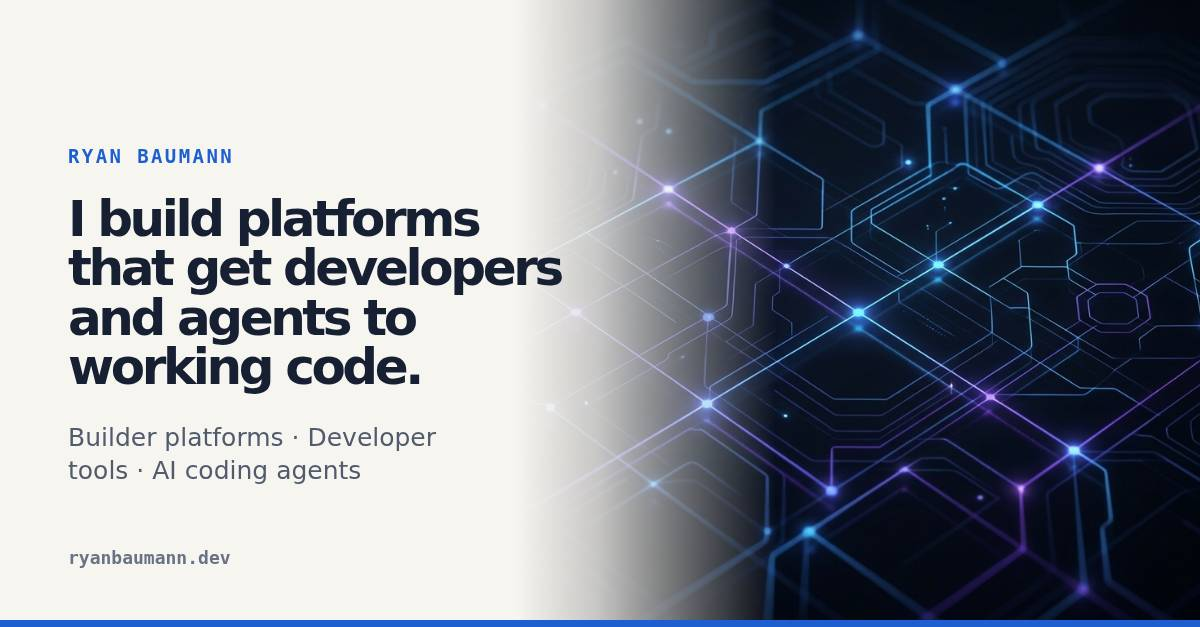
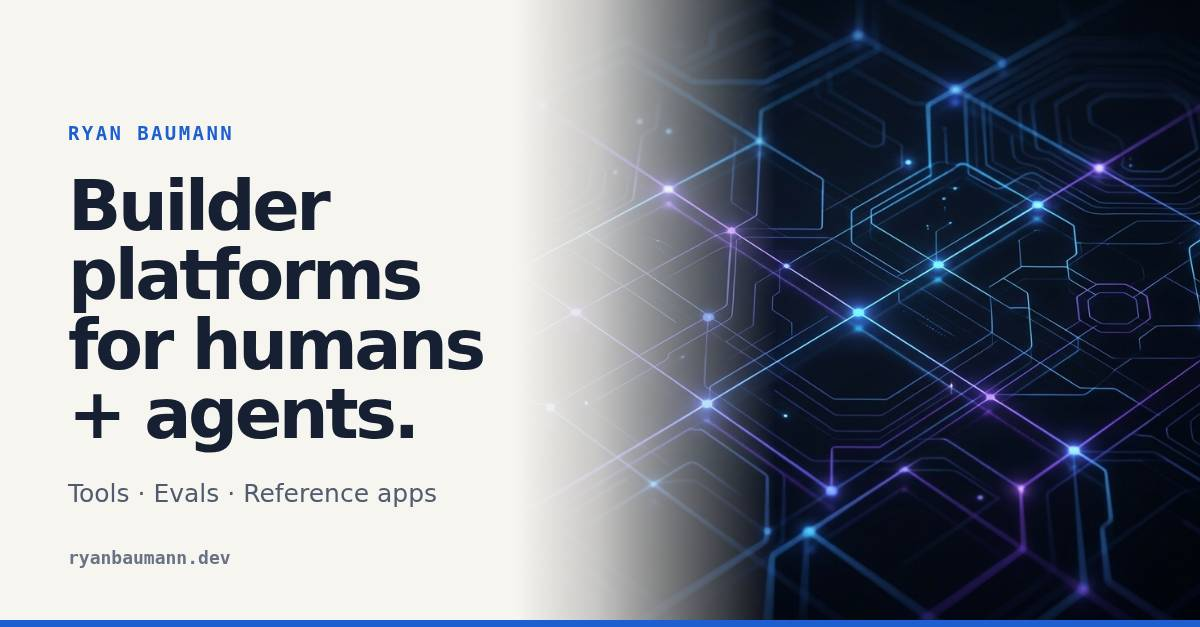
Simplify homepage hierarchy (#98)

Changed region(s): [[0.0308, 0.1818, 0.4933, 0.8182]]

diff --git a/portfolio/style.css b/portfolio/style.css
@@ -131,6 +131,10 @@ img { max-width: 100%; height: auto; border-radius: 0.6rem; }
   border-bottom: 1px solid color-mix(in srgb, var(--line) 70%, transparent);
 }
 .site-name { min-height: 44px; display: inline-flex; align-items: center; font-weight: 700; text-decoration: none; letter-spacing: -0.01em; }
+.site-name-short { display: none; }
+.site-nav-frame { min-width: 0; }
+.nav-overflow-cue,
+.nav-overflow-cue[hidden] { display: none; }
 .site-header nav {
   display: flex;
   gap: clamp(0.75rem, 3vw, 1.35rem);
@@ -141,6 +145,7 @@ img { max-width: 100%; height: auto; border-radius: 0.6rem; }
 }
 .site-header nav::-webkit-scrollbar { display: none; }
 .site-header nav a {
+  flex: 0 0 auto;
   text-decoration: none;
   color: var(--muted);
   font-size: 0.95rem;
@@ -148,22 +153,11 @@ img { max-width: 100%; height: auto; border-radius: 0.6rem; }
   min-height: 44px;
   display: inline-flex;
   align-items: center;
+  white-space: nowrap;
 }
 .site-header nav a:hover { color: var(--accent-ink); }
 .site-header nav a[aria-current="page"] { color: var(--ink); font-weight: 600; }
 .header-actions { display: flex; align-items: center; gap: 0.5rem; flex-wrap: wrap; justify-content: flex-end; }
-.header-cta {
-  border: 1px solid var(--ink);
-  border-radius: 999px;
-  padding: 0 1rem;
-  background: var(--ink);
-  color: var(--bg);
-  font-size: 0.82rem;
-  font-weight: 650;
-  text-decoration: none;
-  white-space: nowrap;
-}
-.header-cta:hover { background: var(--accent-ink); border-color: var(--accent-ink); color: var(--bg); }
 .header-contact {
   min-height: 44px;
   display: inline-flex;
@@ -214,10 +208,6 @@ main > section { margin-bottom: clamp(2rem, 5vw, 3.5rem); }
   .header-actions {
     flex-wrap: nowrap;
     gap: 0.25rem;
-  }
-  .header-cta {
-    padding: 0 0.6rem;
-    font-size: 0.75rem;
   }
   .site-footer { flex-direction: column; gap: 0.5rem; }
 }
@@ -721,14 +711,12 @@ html[data-theme="dark"] {
 }
 .site-header nav a,
 .theme-toggle,
-.header-cta,
 .header-contact,
 .button {
   min-height: 44px;
 }
 .site-header nav a { min-width: 44px; justify-content: center; }
 .header-actions { flex-wrap: nowrap; }
-.header-cta,
 .header-contact,
 .theme-toggle,
 .button {
@@ -745,7 +733,7 @@ html[data-theme="dark"] {
 main > section.hero { margin-bottom: clamp(0.75rem, 2vw, 1.5rem); }
 .hero h1 {
   max-width: 63rem;
-  font-size: clamp(2.5rem, 7.2vw, 5rem);
+  font-size: clamp(2.5rem, 6vw, 4.25rem);
   line-height: 1.05;
   letter-spacing: -0.04em;
 }
@@ -774,9 +762,9 @@ main > section.hero { margin-bottom: clamp(0.75rem, 2vw, 1.5rem); }
 .text-link { color: var(--muted); font-size: 0.92rem; min-height: 44px; display: inline-flex; align-items: center; }
 
 /* ---- hero profile row + stats ---- */
-.hero-profile { display: flex; align-items: center; gap: 1rem; margin-bottom: 1.25rem; }
+.hero-profile { display: flex; align-items: center; gap: 0.85rem; margin-bottom: 1rem; }
 .hero-profile .profile-image {
-  width: clamp(4rem, 14vw, 5.25rem);
+  width: clamp(3.5rem, 10vw, 4.5rem);
   margin-bottom: 0;
 }
 .hero-role { margin: 0; font-weight: 650; letter-spacing: -0.01em; }
@@ -893,49 +881,64 @@ main > section.hero { margin-bottom: clamp(0.75rem, 2vw, 1.5rem); }
 
 @media (max-width: 720px) {
   .site-header {
-    grid-template-columns: minmax(0, 1fr) auto;
-    padding: 0.55rem 0.8rem 0.4rem;
+    grid-template-columns: auto minmax(0, 1fr) auto;
+    flex-wrap: nowrap;
+    padding: 0.4rem 0.8rem;
+    gap: 0.4rem;
   }
-  .site-name { max-width: none; }
+  .site-name { min-width: 44px; justify-content: flex-start; }
+  .site-name-full { display: none; }
+  .site-name-short { display: inline; }
   .site-header nav {
-    grid-column: 1 / -1;
-    grid-row: 2;
     justify-content: start;
-    order: 3;
     width: 100%;
     gap: 0.25rem;
     overflow-x: auto;
     flex-wrap: nowrap;
+    padding-bottom: 0.15rem;
+    scrollbar-width: thin;
+    scrollbar-color: var(--faint) transparent;
   }
+  .site-nav-frame {
+    position: relative;
+  }
+  .site-nav-frame.has-nav-overflow {
+    padding-right: 4.2rem;
+  }
+  .nav-overflow-cue {
+    position: absolute;
+    inset: 0 0 0 auto;
+    display: flex;
+    align-items: center;
+    width: 4.4rem;
+    justify-content: center;
+    background: var(--bg);
+    color: var(--faint);
+    font: 600 0.6rem/1 ui-monospace, "SF Mono", SFMono-Regular, Menlo, Consolas, monospace;
+    letter-spacing: 0.02em;
+    border: 0;
+    cursor: pointer;
+  }
+  .site-header nav::-webkit-scrollbar { display: block; height: 3px; }
+  .site-header nav::-webkit-scrollbar-thumb { background: var(--faint); border-radius: 999px; }
   .site-header nav a { min-height: 44px; font-size: 0.78rem; padding-inline: 0.25rem; }
   .site-header nav a { min-width: 44px; justify-content: center; }
   .header-actions { justify-self: end; gap: 0.35rem; }
   .theme-toggle { min-height: 44px; font-size: 1.1rem; padding: 0; }
-  .header-cta { min-height: 44px; font-size: 0.75rem; padding-inline: 0.65rem; }
   .header-contact { font-size: 0.75rem; padding-inline: 0.25rem; }
-  main { padding-top: 1.1rem; }
+  main { padding-top: 0.75rem; }
   main > section { margin-bottom: 2rem; }
-  .hero h1 { font-size: clamp(2.45rem, 12vw, 3.5rem); line-height: 1.1; letter-spacing: -0.03em; }
+  .hero h1 { font-size: clamp(1.6rem, 8vw, 2.8rem); line-height: 1.08; letter-spacing: -0.03em; }
   .hero .lede { font-size: 1.04rem; line-height: 1.5; }
   .hero { margin-bottom: 1rem; }
 }
 
+@media (max-width: 360px) {
+  .header-contact { display: none; }
+}
+
 @media (max-width: 480px) {
   .intent-options { grid-template-columns: 1fr; }
-}
-
-@media (max-width: 400px) {
-  .site-header nav a { font-size: 0.74rem; }
-  .header-cta { font-size: 0.76rem; padding-inline: 0.75rem; }
-}
-
-@media (max-width: 360px) {
-  .site-header nav { padding-right: 3.75rem; }
-  .header-contact {
-    position: absolute;
-    right: 0.8rem;
-    bottom: 0.4rem;
-  }
 }
 
 @media (min-width: 640px) and (max-width: 1024px) {

diff --git a/LEARNINGS.md b/LEARNINGS.md
@@ -2,6 +2,13 @@
 
 This log captures durable lessons discovered while building and maintaining the portfolio and demo lab, keeping the root instructions lean.
 
+## 2026-07-18 - Primary content belongs in primary navigation
+
+Context: Field Notes appeared as a special header button beside Contact while the rest of the site destinations lived in the primary navigation. On mobile, that split forced the navigation onto a second full-height row and obscured the intended content hierarchy.
+Learning: Put the site’s main reader destination first in the semantic primary navigation. Reserve header actions for utilities, and keep mobile navigation in one horizontally scrollable row so 44-pixel targets do not require a second tier. When links overflow, retain a visible native scroll affordance.
+Evidence: The rendered header now leads with Field Notes in the primary nav, removes the duplicate Field Notes action, and keeps branding, visibly scrollable navigation, Contact, and the theme control on one mobile row. A build regression test asserts the nav order.
+Use next time: Start hierarchy changes from the semantic link order, then let the mobile layout preserve that order without duplicating destinations as calls to action.
+
 ## 2026-07-17 - Navigation and card affordances need structural regression tests
 
 Context: A homepage hierarchy pass removed Resume from the primary header and left Talks out, while collection rows made only the title clickable even though their image and summary looked like one interactive result.

diff --git a/CHANGELOG.md b/CHANGELOG.md
@@ -12,6 +12,7 @@ All notable changes to this project will be documented in this file.
 - Enhanced the `sitemap.xml` generator to output `<image:image>` and `<image:loc>` nodes for pages with cover images to optimize visual search indexing.
 
 ### Changed
+- Simplified the homepage role, headline, introduction, calls to action, and social card; made Field Notes the first primary navigation link and first homepage section; moved Ryan’s Lab after it; and reduced the mobile header to one compact row with visible overflow.
 - Restored Work, Talks, and Resume to the primary header navigation, corrected the homepage introduction, made writing and talk rows fully clickable across their image, title, summary, and metadata, and repaired the Ryan’s Lab card destination on `/work/`.
 - Extended the portfolio's privacy-limited Google Analytics configuration to every hosted Ryan’s Lab workspace app while keeping external experiments outside the shared build.
 - Made `https://ryanbaumann.dev/` the canonical site origin across metadata, RSS, sitemap, analytics, Lab apps, deployment checks, generated posts, and documentation; legacy and www hosts now permanently redirect to the matching apex `.dev` URL.
